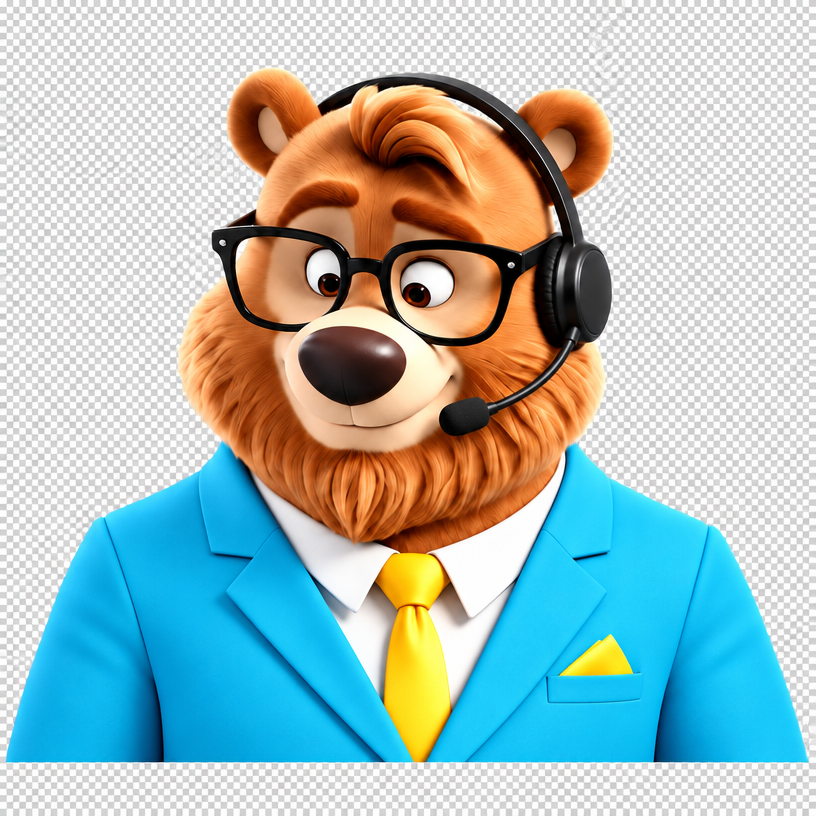
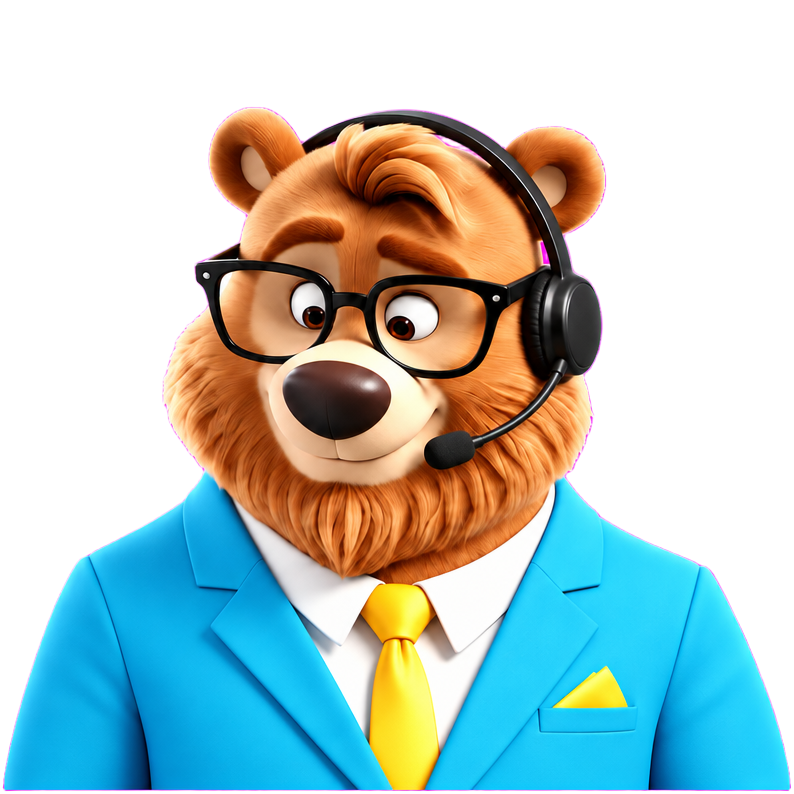
Changes

diff --git a/src/styles.css b/src/styles.css
@@ -1019,7 +1019,7 @@ a:focus-visible, button:focus-visible, input:focus-visible, select:focus-visible
 .header-call .call-caption { display: block; font-size: 14px; font-weight: 500; line-height: 1.2; margin: 0; }
 .header-call strong { font-size: 26px; line-height: 1.1; color: var(--primary); font-weight: 750; }
 .header-call-bear { position: relative; display: block; align-self: stretch; width: 104px; flex-shrink: 0; overflow: hidden; }
-.header-call-bear img { position: absolute; width: auto; max-width: none; height: calc(100% + 10px); bottom: -16px; left: 50%; transform: translateX(-50%); object-fit: contain; }
+.header-call-bear img { position: absolute; width: 100%; height: auto; max-width: none; bottom: 0; left: 50%; transform: translateX(-50%); }
 
 /* Agents available indicator */
 .agents-available { display: inline-flex; align-items: center; gap: 5px; margin-top: 0; font-size: 11px; line-height: 1.2; font-weight: 500; letter-spacing: 0; color: var(--muted-foreground); }
